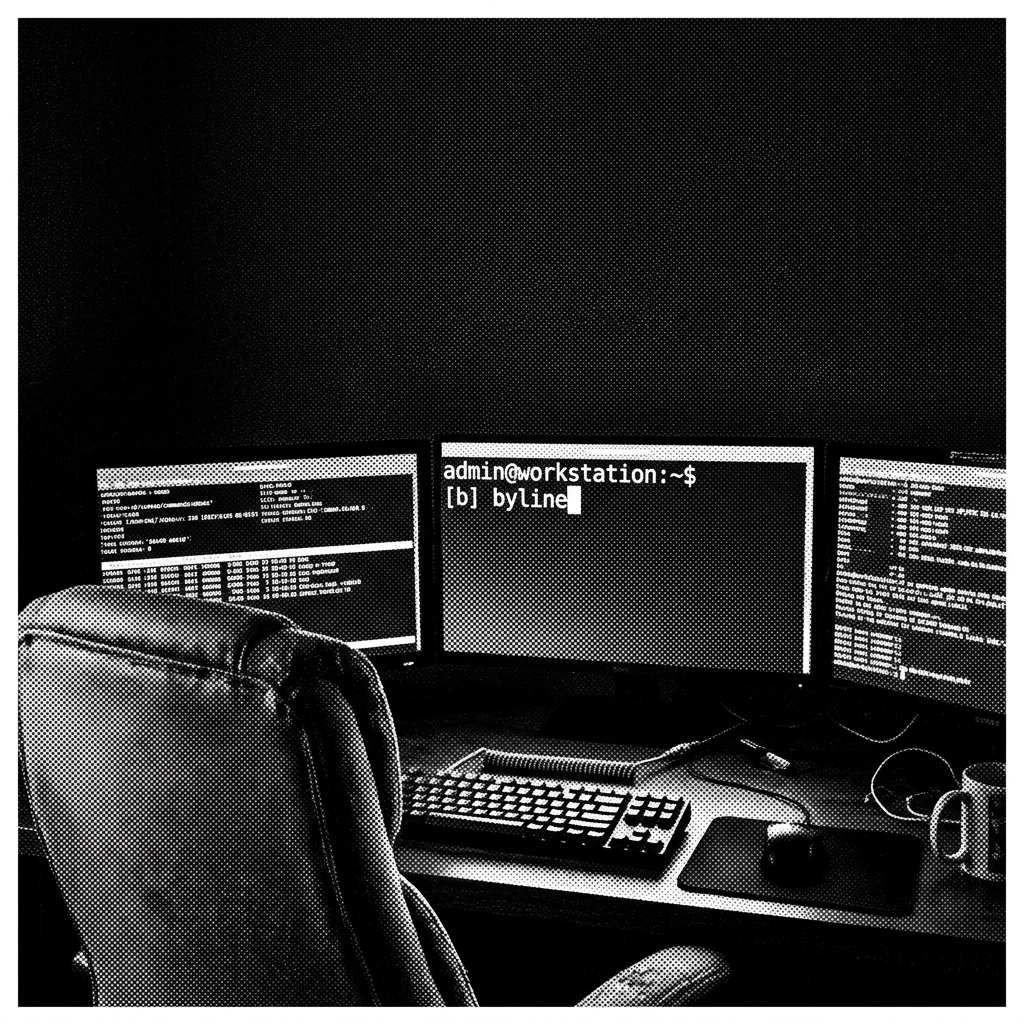
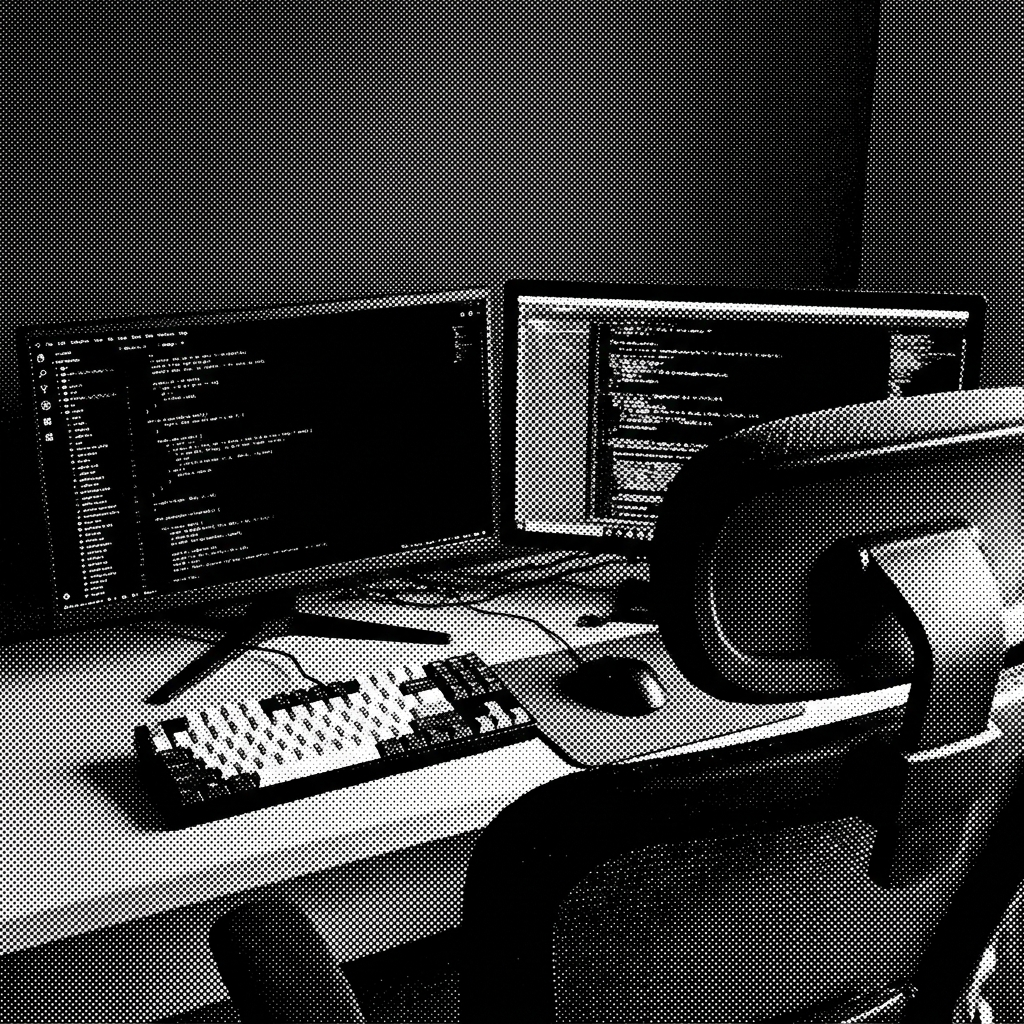
Replace CTA background with no-text version and add HTML terminal overlay

diff --git a/byline/src/app/App.tsx b/byline/src/app/App.tsx
@@ -494,6 +494,27 @@ export default function App() {
               background: "linear-gradient(to bottom, var(--bg) 0%, rgba(13,17,23,0.8) 25%, rgba(13,17,23,0.65) 50%, rgba(13,17,23,0.85) 75%, var(--bg) 100%)",
               zIndex: 0
             }} />
+            
+            {/* Synthetic Monitor Overlay in HTML (not burned into image) */}
+            <div 
+              className="dispatch-mono"
+              style={{ 
+                position: "absolute", 
+                left: "25%", 
+                bottom: "45%", 
+                transform: "perspective(800px) rotateY(12deg) rotateZ(-1deg)",
+                color: "var(--text-primary)",
+                fontSize: 12,
+                fontWeight: 600,
+                opacity: 0.6,
+                textShadow: "0 0 12px rgba(255,255,255,0.3)",
+                pointerEvents: "none",
+                zIndex: 0
+              }}>
+              <span style={{ color: "var(--accent)" }}>[</span>b<span style={{ color: "var(--accent)" }}>]</span> byline<br/>
+              <span style={{ fontSize: 10, color: "var(--text-secondary)" }}>_ awaiting input</span>
+            </div>
+
             <div style={{ position: "relative", zIndex: 1 }}>
               <CTASection />
               <Footer />